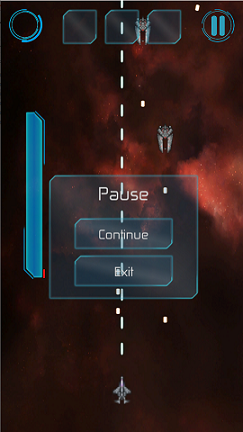
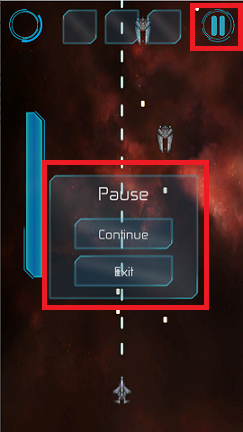
Update Ingame UI 이미지 추가, 적 관련 내용 추가. Network 진행중

Changed region(s): [[0.1728, 0.3611, 0.8642, 0.7222], [0.7778, 0.0, 1.0, 0.1204]]

diff --git a/UnityProject/NetworkShooting/Description/Monster/Readme.md b/UnityProject/NetworkShooting/Description/Monster/Readme.md
@@ -1,7 +1,4 @@
-# Monster Design
-
-## 개요 
-- 몬스터 설계 및 디자인에 관한 문서입니다.
+# Enemy
 
 ## 바로가기
 
@@ -10,30 +7,26 @@
   - [적2](#적2)
   - [Boss](#boss)
 
+
+---
 <br>
 
 ## Spawner
+  ![미리보기](_Image/Spawner.gif)
 
-<br>
-
-<center>
-
-  ![미리보기](Image/Spawner.gif)
-
-</center>
-
-- ## 구현 내용
+- <H2>구현 내용 </H2>
  
   - 일정시간마다 특정 적 오브젝트를 Spawn한다.
   
 <br>
 
-- ## 구현 세부 
+- <span style="font-size:150%"> 구현 세부 </span>
   
-  - Game이 시작되면 TableSetter로부터 Spawner 자신이 생성
+  - Game이 시작되면 TableSetter로부터 Spawner 자신이 생성 
   - 생성 시
-    - Spawner의 Hierarchy에 등록된 적 Prefabs 수 만큼 Coroutine을 생성/실행
-    - 보스 생성 전 Spawner의 멈춤을 위해 파괴 시 실행되는 TableSetter의 델리게이트에 Spanwer 파괴함수 등록
+    - Spawner의 Hierarchy에 등록된 적 오브젝트의 수 만큼 SpawnCoroutine을 생성/코루틴 실행
+    - 보스가 생성되기 전 실행되는 delegate 메소드 TableSetter.singleton.DestroyWhenGaugeFull에 
+      <br> Spawner를 파괴하는 CmdDestroySpawner등록
   - 각 코루틴(적 기체 수 만큼)에서 정해진 대기 시간만큼(적 오브젝트별로 다름) 대기
   - 게임 상단 랜덤한 위치에서 적 오브젝트를 생성(NetworkServer.Spawn)
   - 적 오브젝트 Rigidbody2d.veloicity를 지정
@@ -44,14 +37,7 @@
 <br>
 
 ## 적1
-
-<br>
-
-<center>
-
-  ![미리보기](Image/적1.gif)
-
-</center>
+  ![미리보기](_Image/적1.gif)
 
 - <H2>구현 내용 </H2>
  
@@ -74,14 +60,7 @@
 <br>
 
 ## 적2
-
-<br>
-
-<center>
-
-![미리보기](Image/적2.gif)
-
-</center>
+![미리보기](_Image/적2.gif)
 
 - <H2>구현 내용 </H2>
  
@@ -105,57 +84,41 @@
 
 ## Boss
 
-<br>
-<center>
-
-![미리보기](Image/Boss등장.gif)
-
-
-보스 등장
-
-<br>
-<br>
-
-![미리보기](Image/Boss_Pattern.gif)
-
-보스의 4가지 패턴
-
-</center>
+![미리보기](_Image/Boss등장.gif)<br>
+![미리보기](_Image/Boss_Pattern.gif)
 
 - <H2>구현 내용 </H2>
  
   - 보스 체력바 데이터 동기화
   - 보스 4개의 공격 패턴 구현
 - <H2>구현 세부 </H2>
-  
+
+  - 총알 구현
+    - 기본 총알
+      - ![미리보기]()
+      - 생성 시 방향과 속도를 입력 받아 진행
+    - Bomb
+      - 기본 총알을 상속
+      - 일정 시간 이후 터지며 추가 총알을 생성
   - 공격패턴 구현
     - 한개의 코루틴 활용, 일정 시간마다 랜덤하게 패턴을 실행
     - 부채꼴 
       - 3곳의 발사위치에서 순서대로 부채꼴 형태의 총알을 발사
       - -45 + 10*j로 순서대로 각도 지정
       - 10발을 한번에 발사
-
-    <br>
-
     - 폭탄 발사 
-      - 3곳의 발사위치를 랜덤하게 지정, 일정시간 후 터지는 폭탄 발사
+      - 3곳의 발사위치를 랜덤하게 지정, 일정시간 후 터지는 Bomb 발사
       - -15 + Random.Range(0,30)로 각도 지정
       - 8발을 발사
-      - 발사된 총알은 지정된 시간을 대기 후 파괴(코루틴 활용) <span style="font-size:80%">[문서링크(BossBomb)]()
+      - 발사된 총알은 지정된 시간을 대기 후 파괴(코루틴 활용)
       - 파괴되며 다량의 파편 발사
-
-    <br>
-
     - 난사 
       - 3곳 중 랜덤한 위치에서에서 하위 45도 각도 내 랜덤으로 난사
       -  -45 + Random.Range(0,90)으로 총알 방향 지정
-      - Random.Range(0,3)으로 랜덤위치 지정(총알 발사 위치, 고정값)
+      - 3곳의 발사위치를 랜덤하게 지정
       - 0.02초 간격으로 반복(100번)
-
-    <br>
-
     - 모아쏘기
       - 발사 당시의 순간에 양쪽의 발사위치에서 유저방향으로 총을 여러번 발사
-      - 유저위치로 총알 방향 지정 <span style="font-size:80%">[문서링크(boundary)](../Environment/Readme.md) </span>
+      - 유저위치로 총알 방향 지정
       - 양쪽 발사위치에서 동시에 여러발 발사(10번)
   - boss 체력 동기화

diff --git a/UnityProject/NetworkShooting/Description/UI, Scene/InGameScene/Readme.md b/UnityProject/NetworkShooting/Description/UI, Scene/InGameScene/Readme.md
@@ -1,20 +1,22 @@
 ## Ingame Scene(Lobby)
 <br>
 
-## 개요
-
-
-  
-<br>
+ |<H3><b>Button Class 구조</b></H3>|
+ |:---:|
+ |![미리보기](../_Image/Ingame%20Scene%20UI%20%EC%83%81%EC%86%8D%EA%B5%AC%EC%A1%B0.png)|
+- 상속 구조에 대한 설명
+  - ParentButton
+    - GamePlayer로 부터 데이터를 받는 버튼을 추상화
+    - 버튼의 다른 기능 없이 클릭 기능만을 쓰기위해 IPointerUp, Down Handler를 구현
+    - GamePlayer가 생성 될 때 button에 자신의 오브젝트값을 전달
+  - 구현 클래스의 버튼기능은 구현되어있음
 
 ## 바로가기
 ### Ingame Scene
- - [MoveButton]()
- - [Gauge]()
- - [Top Indicate Button]()
- - [Pause Panel]()
-
-
+ - [MoveButton](#movebutton)
+ - [Gauge](#gauge)
+ - [UserUI Button](#userui-button)
+ - [Pause Panel](#pause-panel)
 
 ## [이전 창으로 돌아가기](https://github.com/shehdrbs123/Dongs-Portfolio/tree/main/UnityProject/NetworkShooting/Description/UI%2C%20Scene)
 
@@ -24,15 +26,13 @@
 
  |<H3><b>실제화면</b></H3>| <H3><b>Button 구현 도식도</b></H3>|
  |:---:|:---:|
- |![미리보기](../_Image/Ingame%20Scene%20Move%20Button.png)|![미리보기](../_Image/Connect%20Scene%20MainPanel%20%EC%84%A4%EA%B3%84%20%EB%82%B4%EC%9A%A9.png)|
+ |![미리보기](../_Image/Ingame%20Scene%20Move%20Button.png)|![미리보기](../_Image/Ingame%20Move%20Button.png)|
 
 ## 구현내용 
 - MoveButton
   - 보이지 않는 양쪽의 버튼이 존재
   - 왼쪽버튼을 누르면 왼쪽으로 이동, 오른쪽 버튼을 누르면 오른쪽 이동
-  - 접속 시 컨트롤 가능 플레이어 선택을 위해 내부적으로 Player를 보관
-  - Ingame Scene으로 전환되며 GamePlayer가 생성,
-  - GamePlayer로 부터 로컬플레이어라면 버튼에 Player가 연결된다.
+  - ParentButton 상속으로 GamePlayer 참조, 이동방향값을 전달
   
 
 
@@ -42,27 +42,30 @@
 
 ## Gauge
 
- |<H3><b>실제화면</b></H3>| <H3><b>Button 구현 도식도</b></H3>|
+ |<H3><b>실제화면</b></H3>| <H3><b>UI 도식도</b></H3>|
  |:---:|:---:|
- |![미리보기](../_Image/Ingame%20-%20Pause.png)||
+ |![미리보기](../_Image/Ingame%20Scene%20Gauge.png)|![미리보기](../_Image/Ingame%20Gauge.png)|
 
 
 ## 구현내용
-- ㅇㅇㅇ
+- HP Gauge
+- Boss Warning Gauge
   
 ## [위로가기](#ingame-scenelobby)
 
 <br>
 
-## Top Indicate Button
+## UserUI Button
 
  |<H3><b>실제화면</b></H3>| <H3><b>Button 구현 도식도</b></H3>|
  |:---:|:---:|
- |![미리보기](../_Image/Ingame%20-%20Pause.png)||
+ |![미리보기](../_Image/Ingame%20Scene%20Indicate%20Button.png)|![미리보기](../_Image/Ingame%20Scene%20UserUI%20Button%20%EA%B5%AC%EC%A1%B0%EB%8F%84.png)|
 
 
 ## 구현내용
-- ㅇㅇㅇ
+- UserUI Button
+  - name, HP 공유
+
 ## [위로가기](#ingame-scenelobby)
 
 <br>
@@ -71,10 +74,11 @@
 
  |<H3><b>실제화면</b></H3>| <H3><b>Button 구현 도식도</b></H3>|
  |:---:|:---:|
- |![미리보기](../_Image/Ingame%20-%20Pause.png)||
+ |![미리보기](../_Image/Ingame%20-%20Pause.png)|![이미지](../_Image/Ingame%20Scene%20Pause%20Button.png)|
 
 ## 구현내용
-- ㅇㅇㅇ
+- Continue Button
+- Exit Button
 ## [위로가기](#ingame-scenelobby)
 
 <br>

diff --git a/UnityProject/NetworkShooting/Description/Networking/Readme.md b/UnityProject/NetworkShooting/Description/Networking/Readme.md
@@ -1,17 +1,84 @@
 # 네트워킹
+
+
 <center>
 
- ![미리보기]()
+
+## Network Workflow
+![이미지](_Image/Network%20Workflow.png)
+
+출처 :https://docs.unity3d.com/kr/2019.4/Manual/class-NetworkBehaviour.html
 
 </center>
 
-## Network 
+- 
 
-Network LobbyManager
+## 바로가기
+### Connect Scene
+ - [Used NetworkComponents]()
+ - [NetworkLobbyManager]()
+ - [Player]()
 
-LobbyPlayer
 
-GamePlayer
 
-LobbyPlayer와 GameUI 연동
+## [이전 창으로 돌아가기](https://github.com/shehdrbs123/Dongs-Portfolio/tree/main/UnityProject/NetworkShooting/Description/UI%2C%20Scene)
+
+<br>
+
+## Used NetworkComponents
+
+ |<H3><b>Network Components 구조도</b></H3>|
+ |:---:|
+ |![미리보기](_Image/Network%20소개%20이미지.png)|
+
+ ## 주로 사용한 Componenets들
+### NetworkIdentity
+  - 네트워크 상에서 유니크한 존재로 표시해주는 컴포넌트
+  - 네트워크 통신이 필요한 오브젝트는 무조건 필요
+
+
+### NetworkBehaviour
+  - Network Identity 컴포넌트 필수
+  - 커스텀 컴포넌트를 생성할 때 사용
+  - Commands, ClientRPCs, SyncEvents, SyncVars 의 기능을 통해 변수를 동기화
+
+
+### NetworkLobbyManager
+  - 대기방이 있는 멀티네트워크 구조에서 쓰이는 Unet의 컴포넌트 중 하나
+  - Networking 연결, 연결 시 작동하는 추상 메서드 존재
+  - NetworkLobbyPlayer, GamePlayer 두 객체를 사용 
+    - 로비상황에서는 LobbyPlayer 
+    - Game상황에서는 GamePlayer
+    - OnLobbyServerSceneLoadedForPlayer() 에서 오브젝트 간 데이터를 공유
+      - 모든 Player가 Ready가 되면 실행되는 이벤트 메서드
+
+
+### NetworkLobbyPlayer
+  - 유저 접속 시 NetworkLobbyManager의해 자동생성되는 네트워크 플레이어 단위
+  - UI와의 연동을 위해 OnClientEnterLobby(), OnClientExitLobby(), OnClientReady(bool readyState)를 사용함
+
+### NetworkClient
+  - Client To Server 로의 네트워크 연결 관리 
+  - Client<-> Server 간에 메시지를 송수신 가능
+
+### NetworkServer
+  - 서버의 작동상태를 확인을 통해 서버 내에서만 실행될 명령을 제한 가능
+  - 클라이언트의 연결을 관리, 스폰, 게임의 전반적인 플레이 진행에 이용
+
+### NetworkTransform
+  - 네트워크 상 오브젝트 중 위치값을 공유하게 해주는 컴포넌트
+  - Threshold, sendrate 등 네트워크 전송 부하에 관한 설정이 가능
+
+
+## [위로가기](#네트워킹)
+
+
+## NetworkComponents
+
+
+## Player
+
+
+
+
 

diff --git a/UnityProject/NetworkShooting/Description/UI, Scene/Connect Scene/Readme.md b/UnityProject/NetworkShooting/Description/UI, Scene/Connect Scene/Readme.md
@@ -4,10 +4,10 @@
 | <H3><b>UI Panel Flow Chart</b></H3>|
 |:---:|
 |![미리보기](../_Image/Connect%20Scene%20UIFlowChart.png)|
-- 다음은 씬 내 패널의 Flow 차트를 설명한 이미지 입니다.
+- 다음은 Scene 내 Panel의 Flow 차트를 설명한 이미지 입니다.
 - Connect Scene Button Script/ CommonButton Script는 UI 최상단 오브젝트 컴포넌트로 등록
 - Connect Scene Button Script 
-  - 씬 패널 관리, 변경 (한번에 한 개의 패널만 존재)
+  - Scene Panel의 관리, 변경 (한번에 한 개의 패널만 존재)
   - 입력 필드를 읽어 서버 생성 혹은 네트워크 연결
 - Common Button Script
   - Scene 변경
@@ -113,7 +113,6 @@
     - 서버가 연결될 당시 종료함수를 delegate에 연결함
     - NetworkLobbyManager.StopHost(), StopClient() 중 하나 연결
   - UIChangeTo 함수로 MainPanel로 변경
-
 <br>
 
 ## 세부 구현 내용
